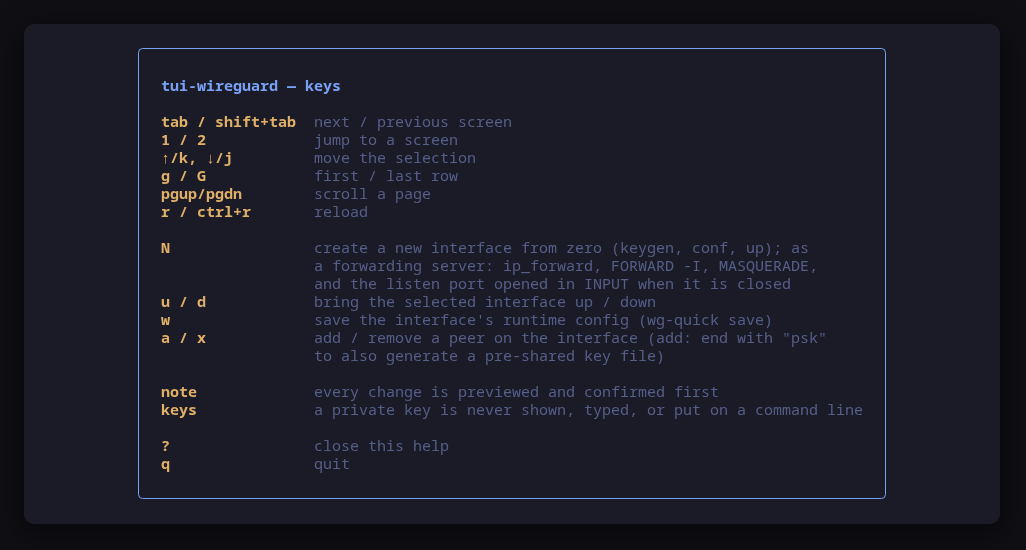
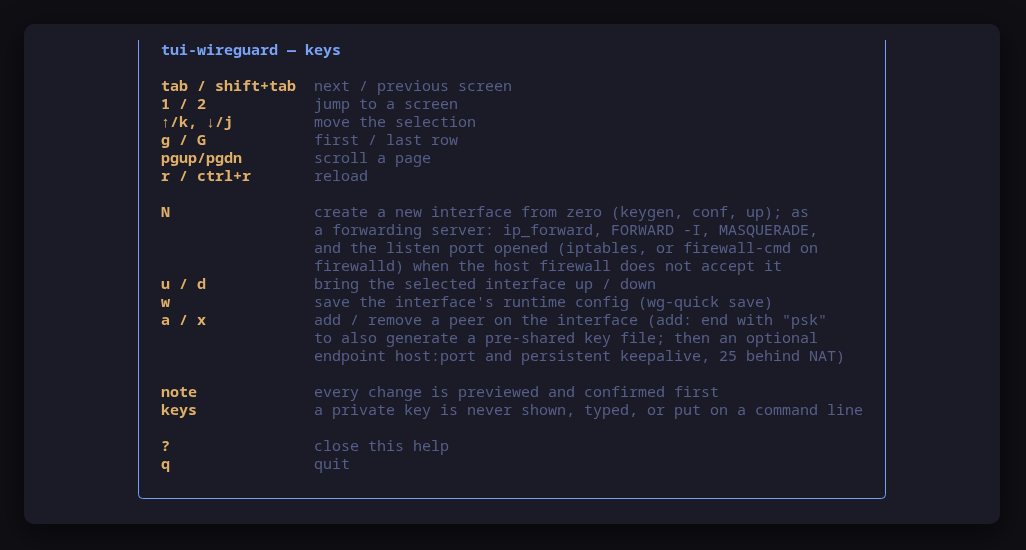
0.5.1 docs, help frame and smoke test for endpoint, keepalive and UDP IN
README: the add-peer endpoint and keepalive steps, where UDP IN is read
from (tui-firewall, nftables, iptables) and what `?` means, the firewalld
port step, and --check's firewallSource and firewallManager. tool.json
says the same in its description and key list; the install section is
rendered for 0.5.1. The help frame is re-rendered from --demo.

The smoke test now asserts which source answered for the host firewall,
that firewalld is recognised and the listen-port verdict agrees with
`firewall-cmd --query-port`, and that --check carries as many peers with
a persistent keepalive as `wg show all persistent-keepalive`.

Claude-Session: https://claude.ai/code/session_01MbCfX3T8khyd9hsrN5kMo3

diff --git a/README.md b/README.md
@@ -36,7 +36,7 @@ tui-wireguard --demo
 ![The interfaces screen: state, listen port, whether the host firewall opens the port and forwards for the interface, and peer counts](docs/screenshots/tui-wireguard-status.png)
 
 - **interfaces**: the WireGuard interfaces on this host, with peer counts and state, whether the host firewall lets a handshake reach the listen port, and whether the host forwards for the interface. `N` creates one from zero (an endpoint, or a forwarding server with its rules), `u` / `d` bring one up or down, `w` saves its runtime config. An interface that is down has no link and no line in `wg show`, so it is listed from its file in `/etc/wireguard` instead, and `u` brings it back.
-- **peers**: the peers of the interface selected on the first screen: endpoint, handshake age, transfer, allowed IPs, keepalive. `a` / `x` add or remove a peer (end the add line with `psk` to also generate a pre-shared key file); `w` saves.
+- **peers**: the peers of the interface selected on the first screen: endpoint, handshake age, transfer, allowed IPs, keepalive. `a` / `x` add or remove a peer (end the add line with `psk` to also generate a pre-shared key file; an optional endpoint and persistent keepalive are asked next); `w` saves.
 
 ![The peers screen: endpoints, handshake age, transfer and allowed IPs for the selected interface](docs/screenshots/tui-wireguard-peers.png)
 
@@ -79,13 +79,26 @@ PostDown = iptables -t nat -D POSTROUTING -s 10.8.0.0/24 -o eth0 -d 10.0.0.0/16 
 
 The FORWARD rules are inserted (`-I`): the provider's Ubuntu image ends its FORWARD chain in `-j REJECT`, and a rule appended after it would never match. The return path is accepted by connection tracking only, so nothing behind the host can open a connection towards the peers. `ip_forward` is left on at down, because something else on the host may rely on it.
 
-**The listen port.** The same image ends its INPUT chain in `-j REJECT`, so the WireGuard port was closed even with the cloud's own security list open. When the host firewall does not already accept the port (or cannot be read), the wizard offers one more previewed step, `iptables -I INPUT -p udp --dport <port> -j ACCEPT`, and says plainly that it is not persisted: it is gone at the next reboot or firewall reload. When [tui-firewall](https://tui.tools/tools/tui-firewall/) is installed, the dialog says to open the port there to keep it; tui-firewall has no non-interactive mode, so tui-wireguard does not drive it. Otherwise it points at `netfilter-persistent save`.
+**The listen port.** The same image ends its INPUT chain in `-j REJECT`, so the WireGuard port was closed even with the cloud's own security list open. When the host firewall does not already accept the port (or cannot be read), the wizard offers one more previewed step, `iptables -I INPUT -p udp --dport <port> -j ACCEPT`, and says plainly that it is not persisted: it is gone at the next reboot or firewall reload. On a firewalld host the step is `firewall-cmd --add-port=<port>/udp` instead: firewalld rejects whatever its zones do not allow in its own nftables table, where an iptables rule is never consulted. When [tui-firewall](https://tui.tools/tools/tui-firewall/) is installed, the dialog says to open the port there to keep it; tui-firewall has no non-interactive mode, so tui-wireguard does not drive it. Otherwise it points at the way to keep it for the firewall in charge (`ufw allow`, `firewall-cmd --permanent`, `netfilter-persistent save`).
 
-The interfaces screen shows both answers for every interface, read from the live ruleset (`iptables -S`, which needs root): **UDP IN** is `open`, `closed` or `?` for the listen port, following jumps into ufw's and docker's chains and ignoring rules that only some senders match; **FORWARD** is whether the FORWARD chain accepts traffic in on the interface.
+The interfaces screen shows both answers for every interface, read from the live firewall (as root):
+
+- **UDP IN** is `open`, `closed` or `?` for the listen port. It is read from [tui-firewall](https://tui.tools/tools/tui-firewall/)'s `--check` when tui-firewall is installed (it knows ufw, firewalld, nftables and iptables), else from `nft -j list ruleset`, else from `iptables -S`. Jumps and gotos are followed into user chains (ufw's, docker's, firewalld's zones), rules that only some senders match are ignored, and a firewalld zone counts when it is the default zone or an interface is bound to it. Where the answer cannot be told (a jump into a chain that was not read, a firewalld service whose ports are not known), it is `?`, never `closed`.
+- **FORWARD** is whether the iptables FORWARD chain accepts traffic in on the interface: where a forwarding server's PostUp puts its rules.
 
 ### Persist peer changes (`w`)
 
 `wg set` mutations are runtime-only. After a successful peer add or remove, tui-wireguard offers `wg-quick save <if>`; `w` on the interfaces or peers screen offers it on demand. The dialog warns before you confirm: the save rewrites the conf from runtime state (hand-written comments are lost, and wg-quick inlines the private key into the root-only, mode 600 file, which is standard wg-quick behaviour).
+
+### Endpoint and keepalive on add-peer
+
+After the key line, `a` asks two optional questions. **Endpoint** is where to reach the peer, `host:port` or `[v6]:port` (a DNS name, an IPv4 address, or an IPv6 address in brackets); leave it empty on the side that is dialled, which learns the peer's address from its first handshake. **Persistent keepalive** is a number of seconds, 0-65535, empty or 0 for off; it is prefilled with 25 once an endpoint is given, the usual value for a host behind NAT that dials out. Both land on the one previewed command:
+
+```sh
+wg set wg0 peer <public-key> allowed-ips 10.66.0.1/32 endpoint vpn.example.com:51820 persistent-keepalive 25
+```
+
+`wg-quick save` persists them with the rest (`Endpoint =` and `PersistentKeepalive =` in the conf), and the peers screen shows them in its ENDPOINT and KEEP columns. A malformed endpoint or an out-of-range keepalive reopens its step with the value as typed and the reason.
 
 ### Optional pre-shared key on add-peer
 
@@ -105,7 +118,7 @@ Prints the versions and machine facts a bug report needs and exits: no UI, no pr
 tui-wireguard --check
 ```
 
-Reads the interfaces and the host firewall once and prints a summary as JSON: interface and peer counts, per-peer handshake ages, per-interface `listenPortInput` (what the host's INPUT chain does with a handshake: `accept`, `reject`, `drop`, or `unknown` when the ruleset could not be read, with `firewallChecked` saying which) and `forwarding`, and a `compat` block naming the wireguard-tools version.
+Reads the interfaces and the host firewall once and prints a summary as JSON: interface and peer counts, per-peer handshake ages, per-interface `listenPortInput` (what the host firewall does with a handshake: `accept`, `reject`, `drop`, or `unknown` when it could not be read or judged; `firewallChecked` says whether it was read, `firewallSource` what answered, `tui-firewall`, `nftables` or `iptables`, and `firewallManager` whether that is `firewalld` or `ufw`) and `forwarding`, and a `compat` block naming the wireguard-tools version.
 
 Like `--report`, it carries no key, no endpoint, no URL and no address of the host: it is meant to be pasted into scripts and issues. `test/smoke.sh` asserts that no `://` survives anywhere in the output, and that the interfaces, ports and peer counts agree with `wg show`.
 
@@ -222,7 +235,7 @@ Available once the first release lands in pkgs.tui.tools.
 ### Any distribution, static binary — coming soon
 
 ```sh
-curl -fsSL https://github.com/tui-tools/tui-wireguard/releases/download/v0.4.0/tui-wireguard_0.4.0_linux_amd64.tar.gz | tar -xz tui-wireguard
+curl -fsSL https://github.com/tui-tools/tui-wireguard/releases/download/v0.5.1/tui-wireguard_0.5.1_linux_amd64.tar.gz | tar -xz tui-wireguard
 sudo install -m0755 tui-wireguard /usr/local/bin/tui-wireguard
 ```
 
